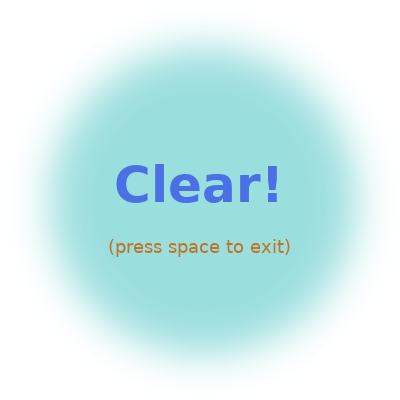
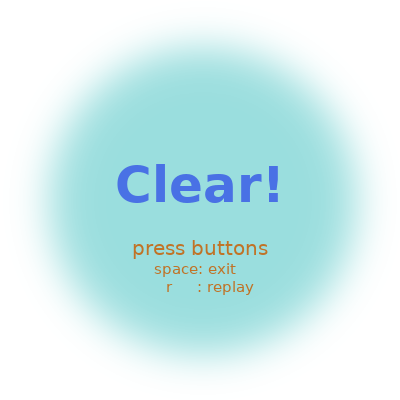
게임 다시시작/끝내기/치트키 추가

diff --git a/Bubblebobble_Termproject_28/src/run.cpp b/Bubblebobble_Termproject_28/src/run.cpp
@@ -114,6 +114,7 @@ void initScoreBoard() {
 
 void processNormalKeys(unsigned char key, int x, int y) {
 
+	// spacebar
 	if (key == 32) {
 		if (g_state == InGame) {
 			VB->launchBubble();
@@ -121,6 +122,26 @@ void processNormalKeys(unsigned char key, int x, int y) {
 		else {
 			exit(0);
 		}
+	}
+	// restart game
+	if (key == 'r') {
+		if (g_state == InGame) {
+		}
+		else {
+			g_state = InGame;
+
+			textures.clear();
+			delete VB;
+			delete light0;
+			delete light1;
+
+			VB = new VisualBoard();
+			initGameBoard();
+		}
+	}
+	// quick exit
+	if (key == 'q') {
+		exit(0);
 	}
 }
 
@@ -139,6 +160,11 @@ void processSpecialKeys(int key, int x, int y) {
 			break;
 		case GLUT_KEY_F2:
 			cout<<VB->getScore()<<endl;
+			break;
+		// Cheat!
+		case GLUT_KEY_F12:
+			VB->cheatClear();
+			cout << "You Cheated!!!" << endl;
 			break;
 	}
 }

diff --git a/Bubblebobble_Termproject_28/src/VisualBoard.cpp b/Bubblebobble_Termproject_28/src/VisualBoard.cpp
@@ -338,7 +338,7 @@ int VisualBoard::getState()
 
 bool VisualBoard::gameClear()
 {
-    return bubblez.size() == 2;
+    return bubblez.size() <= 2;
 }
 
 bool VisualBoard::gameOver(int clear)
@@ -353,6 +353,17 @@ bool VisualBoard::gameOver(int clear)
 std::vector<Bubble *> VisualBoard::getBubble()
 {
     return bubblez;
+}
+
+void VisualBoard::cheatClear(){
+    
+    board->cheatClear();
+    for (int i = 0 ; i < GAME_COLUMN_COUNT ; i++){
+        if(bubble_alias[1][i] != NULL) bubble_alias[1][i]->makePopping();
+    }
+
+    game_state = Drop;
+    
 }
 
 // void VisualBoard::makePopping(Bubble *b)

diff --git a/Bubblebobble_Termproject_28/include/Bubble.h b/Bubblebobble_Termproject_28/include/Bubble.h
@@ -34,7 +34,7 @@ class Bubble : public BaseObject
 {
 public:
 	/* op = option. Bubble's color */
-	Bubble(double r = 0.0, double x = 0.0, double y = 0.0, int op = 0);
+	Bubble(double r = 0.0, double x = 0.0, double y = 0.0, int op = 5);
 	~Bubble();
 	void setState(BubbleState);
 	void setState(BubbleState, double, double);

diff --git a/Bubblebobble_Termproject_28/include/Board.h b/Bubblebobble_Termproject_28/include/Board.h
@@ -47,6 +47,7 @@ public:
 	std::vector<std::pair<int, int>> BubbleDropRC();
 	void levelDown();
 	std::pair<double, double> getCoords(int r, int c) const;
+	void cheatClear();
 
 private:
 	const double bubble_diameter = BUBBLE_RADIUS * 2;

diff --git a/Bubblebobble_Termproject_28/src/Board.cpp b/Bubblebobble_Termproject_28/src/Board.cpp
@@ -329,3 +329,9 @@ void Board::dfs(int row, int col, int option)
 		}
 	}
 }
+
+void Board::cheatClear(){
+	for (int i = 0 ; i < GAME_COLUMN_COUNT ; i++){
+		bubbled[1][i] = false;
+	}
+}

diff --git a/Bubblebobble_Termproject_28/include/VisualBoard.h b/Bubblebobble_Termproject_28/include/VisualBoard.h
@@ -125,4 +125,5 @@ public:
     std::vector<Bubble *> getBubble();
     // void maklePopping(Bubble *b);
     unsigned int getScore() const;
+    void cheatClear();
 };
